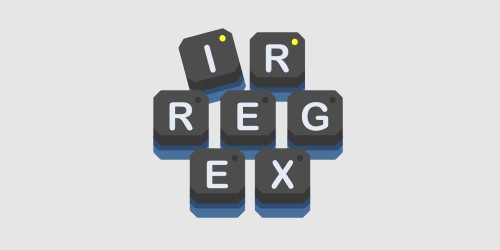
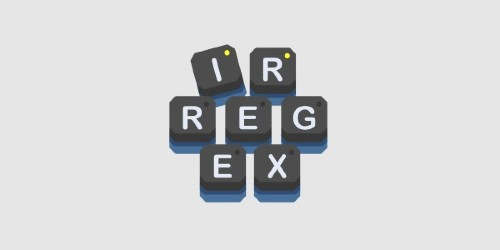
restyle

Changed region(s): [[0.3, 0.112, 0.69, 0.896]]

diff --git a/index.html b/index.html
@@ -18,7 +18,7 @@
     <!-- meta title -->
     <title>Mobile First | Open Source Software Projects</title>
     <meta property="og:title" content="Mobile First Open Source Software"/>
-    <meta name="twitter:title" content="Mobile First OSS">
+    <meta name="twitter:title" content="Mobile First Open Source Software">
 
     <!-- images -->
     <meta itemprop="image" content="https://oss.mobilefirst.me/images/og_image.png">
@@ -41,7 +41,11 @@
     <script async src="https://www.googletagmanager.com/gtag/js?id=G-6XB4XDVPX3"></script>
     <script>
         window.dataLayer = window.dataLayer || [];
-        function gtag(){dataLayer.push(arguments);}
+
+        function gtag() {
+            dataLayer.push(arguments);
+        }
+
         gtag('js', new Date());
 
         gtag('config', 'G-6XB4XDVPX3');
@@ -98,7 +102,7 @@
         position: relative;
         outline: none;
         display: grid;
-        grid-template-columns: 280px 1fr;
+        grid-template-columns: 200px 1fr;
         grid-auto-rows: 1fr;
     }
 
@@ -116,27 +120,27 @@
 
     /** point click devices **/
     @media (hover: hover) {
-        ul li:not(.title):hover, ul li:not(.title):focus {
-            border-color: #A4C639;
-            box-shadow: 0 0 0 2px #A4C639, 0 0 20px 13px rgba(255, 255, 255, 0.07);
+        ul li:not(.title):hover, ul li:not(.title):focus, a:focus {
+            border-color: #FFFF00;
+            box-shadow: 0 0 0 2px #FFFF00, 0 0 20px 23px #0003;
         }
 
         a:focus {
             opacity: 1;
             outline: none;
             border-radius: 4px;
-            border-color: #A4C639;
-            box-shadow: 0 0 0 2px #A4C639, 0 0 20px 13px rgba(255, 255, 255, 0.07);
         }
     }
 
-    ul li picture, ul li iframe {
-        background: #333;
-        height: 100%;
-        width: 100%;
-        min-height: 200px;
+    ul li picture {
+        /*background: #333;*/
+        width: 150px;
+        height: 150px!important;
+        border-radius: 9px;
+        overflow: hidden;
         position: relative;
         display: flex;
+        margin:auto;
         align-items: center;
         justify-content: center;
     }
@@ -144,7 +148,7 @@
     ul li picture img {
         position: relative;
         width: 100%;
-        height: auto;
+        height: 100%;
         top: 0;
         left: 0;
         margin: auto;
@@ -169,6 +173,42 @@
         font-size: 0.8em;
         padding: 0 25px 15px 25px;
         line-height: 1.5;
+    }
+
+    ul.second {
+        display: grid;
+        grid-template-columns: 1fr 1fr;
+    }
+
+    ul.second .title {
+        grid-column-end: 3;
+    }
+
+    ul.second li:not(.title) {
+        grid-template-columns: 1fr;
+        margin: 15px 15px;
+    }
+
+    ul.second picture {
+        display: none;
+    }
+
+    ul.second h2 {
+        padding: 10px 15px 0 15px;
+        text-align: center;
+        font-size: 1em;
+    }
+    ul.second h2 span{
+        font-size: 48px;
+        display: block;
+        margin-bottom: 10px;
+        line-height: 1;
+    }
+
+    ul.second p {
+        padding: 10px 15px;
+        text-align: center;
+        font-size: .7em;
     }
 
     #pixel-logo {
@@ -226,7 +266,7 @@
         font-size: 0.8em;
         opacity: 0.5;
         margin: 0.5em;
-        border:2px solid transparent;
+        border: 2px solid transparent;
         border-radius: 4px;
     }
 
@@ -236,7 +276,8 @@
         width: 48px;
         height: 48px;
     }
-    .small span{
+
+    .small span {
         display: block;
         padding: 0 10px;
         margin-bottom: 10px;
@@ -288,6 +329,17 @@
 
         .links {
             margin-top: 0;
+        }
+
+        ul.second {
+            display: block;
+            width: 400px;
+            max-width: 100%;
+            margin-right: auto;
+            margin-left: auto;
+        }
+        ul.second h2 {
+            font-size: .9em;
         }
     }
 
@@ -350,7 +402,7 @@
     <li onclick="window.location.href = '/extension-cli'"
         onkeypress="window.location.href = '/extension-cli'"
         role="button" tabindex="0">
-        <picture style="background:#103049;height:100%">
+        <picture>
             <img src="/images/extension-cli.jpg"
                  style="position:absolute;width:100%;height:100%;"
                  alt="extension-cli"/>
@@ -363,20 +415,18 @@
     <li onclick="window.location.href = 'https://github.com/MobileFirstLLC/irregular-expressions'"
         onkeypress="window.location.href = 'https://github.com/MobileFirstLLC/irregular-expressions'"
         role="button" tabindex="0">
-        <picture style="background:#e6e6e6">
-            <img src="/images/irregex.jpg"
-
-                 alt="irregular expressions"/>
+        <picture>
+            <img src="/images/irregex.jpg" alt="irregular expressions"/>
         </picture>
         <div>
             <h2>Irregular Expressions</h2>
             <p>Virtual keyboard for android devices for writing expressive text 🅻𝚒𝕜ᴇ 𝔱𝒽ⓘ𝒔.</p>
         </div>
     </li>
-    <li onclick="window.location.href = 'https://github.com/MobileFirstLLC/shortcuts-for-chrome'"
-        onkeypress="window.location.href = 'https://github.com/MobileFirstLLC/shortcuts-for-chrome'"
+    <li onclick="window.location.href = '/shortcuts-for-chrome'"
+        onkeypress="window.location.href = '/shortcuts-for-chrome'"
         role="button" tabindex="0">
-        <picture style="background:#212121;height:100%">
+        <picture>
             <img src="/images/shortcuts.png"
                  style="position:absolute;width:100%;height:100%;"
                  alt="Shortcuts for Chrome"/>
@@ -386,6 +436,8 @@
             <p>Quick access navigation menu for developers working with chrome browser</p>
         </div>
     </li>
+</ul>
+<ul class="second">
     <li class="title">
         <h3>Resources</h3>
     </li>
@@ -398,7 +450,7 @@
                  alt="Social Media Hacker List"/>
         </picture>
         <div>
-            <h2>Social Media Hacker List</h2>
+            <h2><span>👩💻</span>Social Media Hacker List</h2>
             <p>Growing list of unofficial apps and tools to enhance social media experiences.</p>
         </div>
     </li>
@@ -410,7 +462,7 @@
                  alt="First bot for Reddit"/>
         </picture>
         <div>
-            <h2>My First Bot for Reddit</h2>
+            <h2><span>🤖</span>First Bot for Reddit</h2>
             <p>Beginner-level starter code and tutorial for working with reddit programmatically. Make your own bot in <
                 1 h.</p>
         </div>
@@ -418,6 +470,10 @@
 </ul>
 
 <div class="links">
+    <a class="small" href="https://mobilefirst.me" rel="nofollow">
+        <img src="./images/home.svg" alt=""/>
+        <span>Home</span>
+    </a>
     <a class="small" href="https://github.com/MobileFirstLLC" rel="nofollow">
         <img src="./images/github-circle.svg" alt=""/>
         <span>Github</span>
@@ -425,14 +481,6 @@
     <a class="small" href="https://www.npmjs.com/~mobilefirstllc" rel="nofollow">
         <img src="./images/npm.svg" alt=""/>
         <span>NPM</span>
-    </a>
-    <a class="small" href="https://play.google.com/store/apps/dev?id=5579443779732185783" rel="nofollow">
-        <img src="./images/google-play.svg" alt=""/>
-        <span>Google Play</span>
-    </a>
-    <a class="small" href="https://mobilefirst.me" rel="nofollow">
-        <img src="./images/home.svg" alt=""/>
-        <span>Web</span>
     </a>
     <a class="small" href="https://github.com/sponsors/MobileFirstLLC" rel="nofollow">
         <img src="./images/heart-outline.svg" alt=""/>
